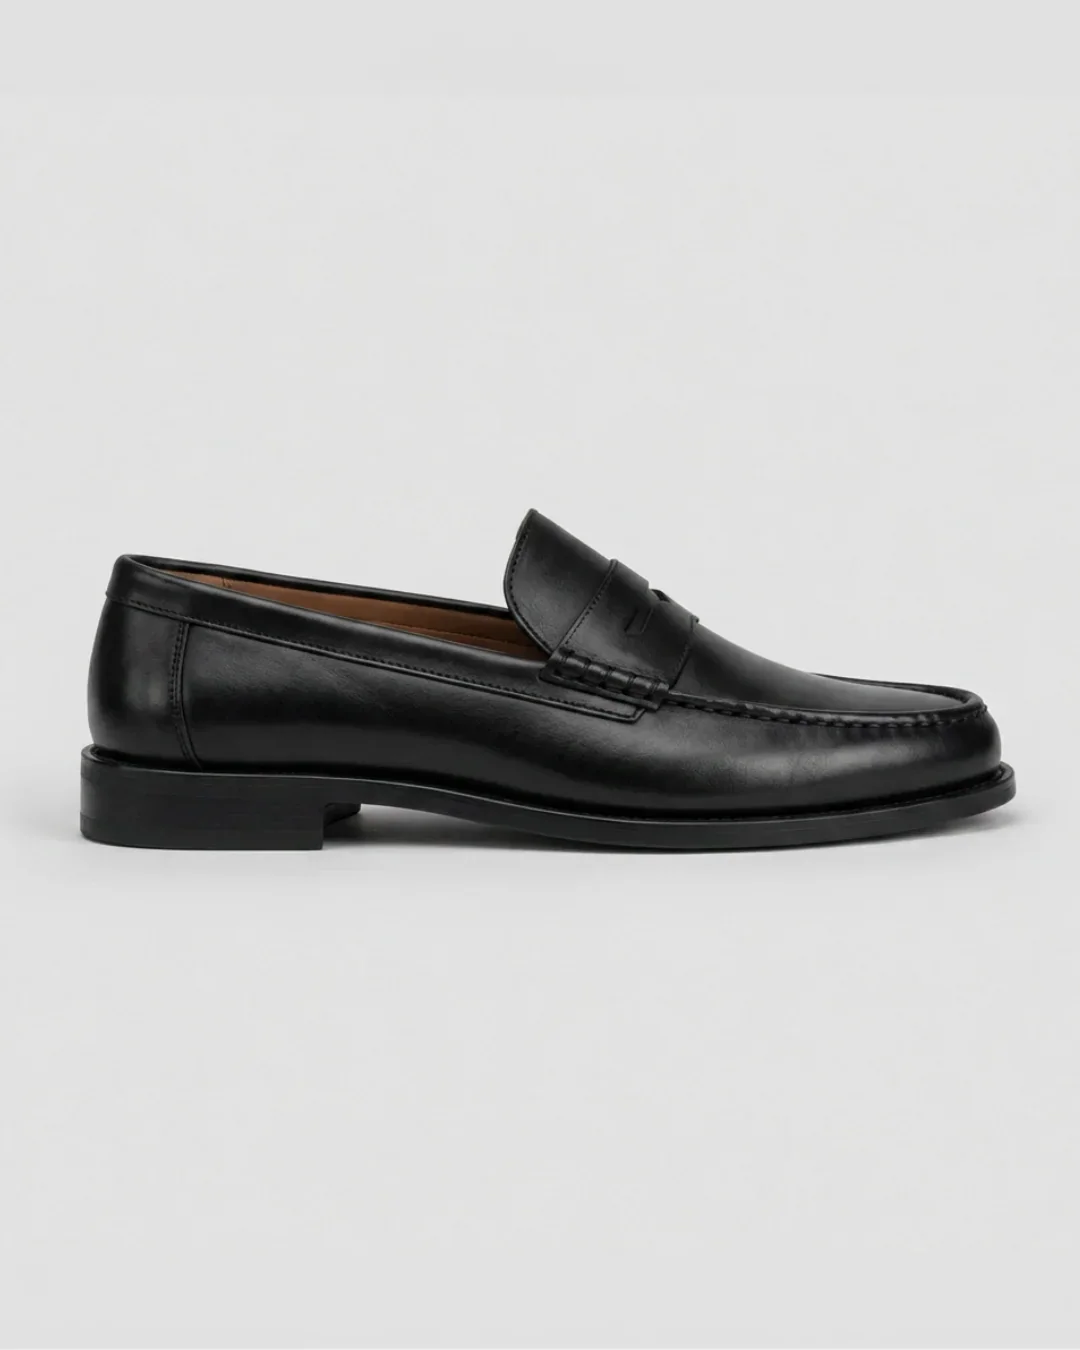
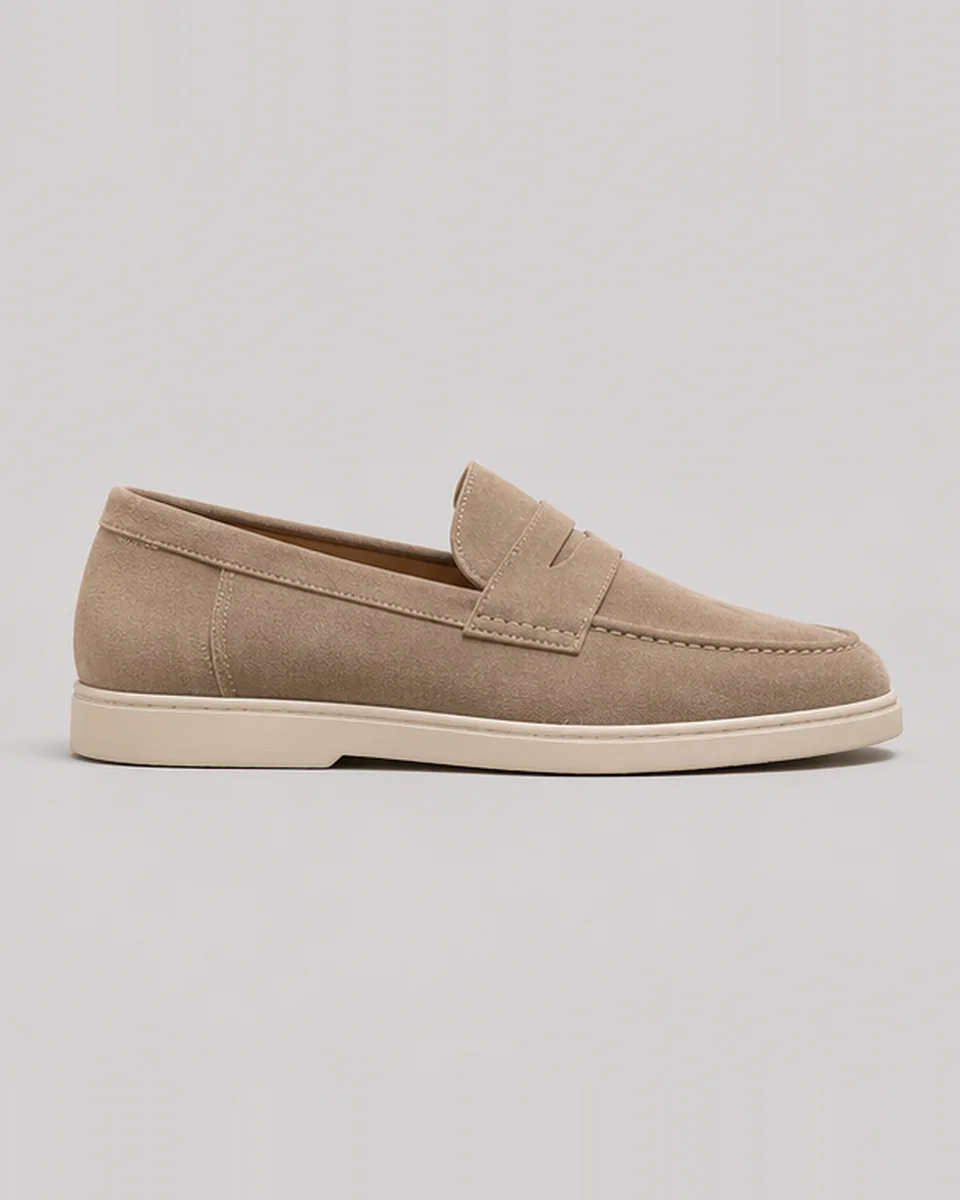
Own AI product photos: homepage category tiles and 5 seeded products
- Replace the homepage collection tiles with the grey studio shots (4:5, extended backdrop).
- Seed five products with their photo sets: cream leather sneaker, taupe suede loafer, black cap toe oxford, brown chelsea boot, brown crossbody bag.
- Category names match the homepage links (Loafers, Dress shoes, Boots, Accessories). The server matches hyphenated slugs (dress-shoes) to names with spaces, and the category page shows proper titles for them.

Changed region(s): [[0.0312, 0.37, 0.9375, 0.6475]]

diff --git a/prisma/seed.ts b/prisma/seed.ts
@@ -112,7 +112,7 @@ function generateProducts(categories: { id: number; name: string }[]) {
 
 // Hand-made products with real photos, served from apps/client/public/products.
 // The first image of each product is its thumbnail. Category ids: 5 Sneakers,
-// 7 Loafers, 8 Business Sko, 9 Støvler, 10 Tilbehør.
+// 7 Loafers, 8 Dress shoes, 9 Boots, 10 Accessories.
 const sequence = (folder: string, count: number) =>
   Array.from({ length: count }, (_, i) => `/products/${folder}/${i + 1}.webp`);
 
@@ -139,88 +139,46 @@ const HAND_MADE_PRODUCTS: {
     ].map((n) => `/products/black-suede/${n}.webp`),
   },
   {
-    name: "Essential Sneaker - Taupe Suede",
-    price: 899,
-    category_Id: 5,
-    description:
-      "Low top sneaker i blødt taupefarvet ruskind med cognacfarvet læderforing og hvid gummisål. Et roligt, nordisk udtryk til hverdagen.",
-    images: sequence("taupe-suede-sneaker", 6),
-  },
-  {
-    name: "Essential Sneaker - White Leather",
+    name: "Essential Sneaker - Cream Leather",
     price: 949,
     category_Id: 5,
     description:
-      "Ren hvid læder sneaker med tonet sål og cognacfarvet læderforing. Tidløs og nem at style til både jeans og habit.",
-    images: sequence("white-leather-sneaker", 6),
+      "Low top sneaker i blødt cremefarvet læder med ruskindshæl og tonet gummisål. Et roligt, nordisk udtryk til hverdagen.",
+    images: sequence("cream-leather-sneaker", 4),
   },
   {
-    name: "Court Sneaker - Cream Gum",
-    price: 1099,
-    category_Id: 5,
-    description:
-      "Retro court sneaker i cremefarvet læder og ruskind med sort hælkappe og karamelfarvet gummisål.",
-    images: sequence("cream-gum-sneaker", 6),
-  },
-  {
-    name: "Court Sneaker - Black Gum",
-    price: 1099,
-    category_Id: 5,
-    description:
-      "Retro court sneaker i sort læder med lakdetalje, cremefarvet hælkappe og karamelfarvet gummisål.",
-    images: sequence("black-gum-sneaker", 5),
-  },
-  {
-    name: "Chunky Penny Loafer - Black",
-    price: 1299,
-    category_Id: 7,
-    description:
-      "Penny loafer i sort glatlæder på en kraftig, profileret gummisål. Klassisk form med et moderne, robust udtryk.",
-    images: sequence("black-chunky-loafer", 6),
-  },
-  {
-    name: "Penny Loafer - Brown Suede",
+    name: "Suede Penny Loafer - Taupe",
     price: 1199,
     category_Id: 7,
     description:
-      "Penny loafer i mørkebrunt ruskind med cognacfarvet læderforing og læderæsål. Elegant til habit og afslappet til denim.",
-    images: sequence("brown-suede-loafer", 5),
+      "Penny loafer i blødt taupefarvet ruskind med cremefarvet gummisål. Let og elegant, til både habit og chinos.",
+    images: sequence("taupe-suede-loafer", 4),
   },
   {
-    name: "Derby - Black Polished",
+    name: "Cap Toe Oxford - Black",
     price: 1399,
     category_Id: 8,
     description:
-      "Derby i højglanspoleret sort læder på en let profileret sål. Pæn nok til kontoret, robust nok til hverdagen.",
-    images: sequence("black-derby", 6),
+      "Klassisk oxford med cap toe i sort glatlæder med cognacfarvet læderforing og læderhæl. Til kontoret og de pæne anledninger.",
+    images: sequence("black-cap-toe-oxford", 4),
   },
   {
-    name: "Chelsea Boot - Black",
+    name: "Chelsea Boot - Brown",
     price: 1499,
     category_Id: 9,
     description:
-      "Chelsea støvle i sort glatlæder med elastikindsats, trækløkke og cognacfarvet læderforing.",
-    images: sequence("black-chelsea-boot", 5),
+      "Chelsea støvle i mørkebrunt læder med elastikindsats og trækløkke. Tidløs form til efterår og vinter.",
+    images: sequence("brown-chelsea-boot", 4),
   },
   {
-    name: "Leather Belt - Brown",
-    price: 399,
+    name: "Crossbody Bag - Brown",
+    price: 799,
     category_Id: 10,
     description:
-      "Bælte i mørkebrunt glatlæder med poleret sølvfarvet spænde. 3 cm bredt.",
-    images: sequence("brown-leather-belt", 2),
+      "Kompakt crossbody taske i mørkebrunt læder med fremhævet NORDWEAR-logo, lynlås og justerbar stofrem.",
+    images: sequence("brown-crossbody-bag", 5),
   },
-  {
-    name: "Leather Belt - Black",
-    price: 399,
-    category_Id: 10,
-    description:
-      "Bælte i sort glatlæder med poleret sølvfarvet spænde. 3 cm bredt.",
-    images: sequence("black-leather-belt", 2),
-  },
-];
-
-async function main() {
+];async function main() {
   console.log("Seeding database...");
 
   // Resolve passwords first, so a refused run never touches the database.
@@ -280,9 +238,9 @@ async function main() {
     { id: 5, name: "Sneakers" },
     { id: 6, name: "Tilbud" },
     { id: 7, name: "Loafers" },
-    { id: 8, name: "Business Sko" },
-    { id: 9, name: "Støvler" },
-    { id: 10, name: "Tilbehør" },
+    { id: 8, name: "Dress shoes" },
+    { id: 9, name: "Boots" },
+    { id: 10, name: "Accessories" },
   ];
   await prisma.category.createMany({
     data: categoriesToSeed,

diff --git a/apps/server/src/services/product.service.ts b/apps/server/src/services/product.service.ts
@@ -79,8 +79,10 @@ export const getProducts = async (
     if (categoryIds && categoryIds.length > 0) {
       where.category_Id = { in: categoryIds };
     } else if (categoryName) {
+      // URL slugs use hyphens ("dress-shoes"); category names use spaces.
+      const spacedName = categoryName.replace(/-/g, " ");
       const capitalizedCategoryName =
-        categoryName.charAt(0).toUpperCase() + categoryName.slice(1);
+        spacedName.charAt(0).toUpperCase() + spacedName.slice(1);
       where.category = {
         name: {
           equals: capitalizedCategoryName,

diff --git a/apps/client/src/pages/Customer/Category.tsx b/apps/client/src/pages/Customer/Category.tsx
@@ -244,6 +244,10 @@ const Category: React.FC = () => {
       hoodies: "Hættetrøjer",
       pants: "Bukser",
       deals: "Tilbud",
+      loafers: "Loafers",
+      "dress-shoes": "Dress shoes",
+      boots: "Boots",
+      accessories: "Accessories",
     };
     return translations[slug?.toLowerCase() || ""] || slug || "Alle Produkter";
   };
